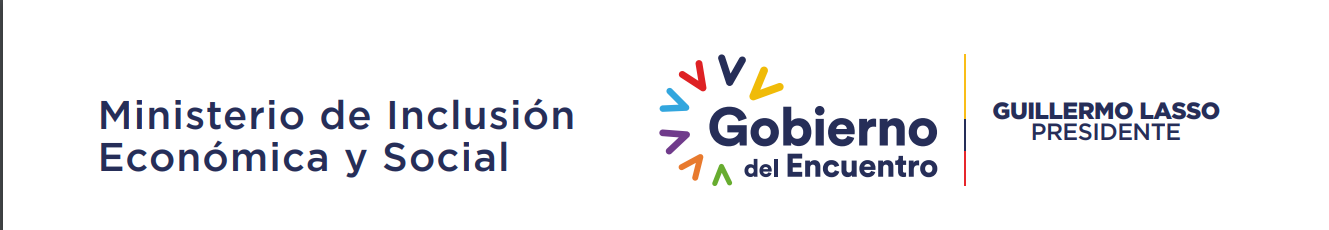
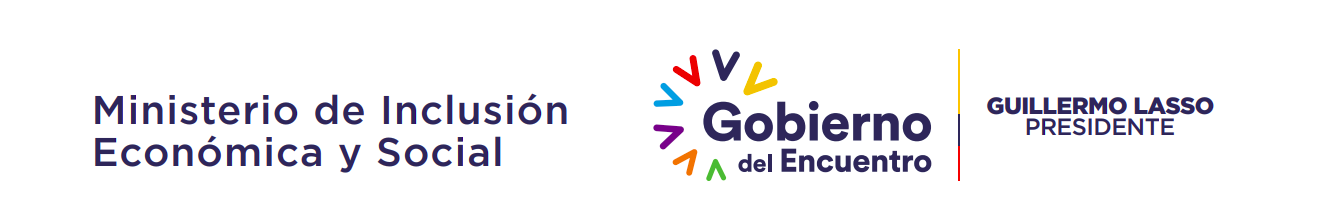
Imagen en login y algo de estilo

diff --git a/miesDinapenWeb/src/app/login/login.component.html b/miesDinapenWeb/src/app/login/login.component.html
@@ -1,34 +1,39 @@
 <!-- <p>login works!</p> -->
 <div class="container">
-<div class="row">
-    <div class="col-12 mt-4">
-        
-                <h2>Acceso de cuenta</h2>
-                <p class="text-muted">Iniciar sesión en su cuenta</p>
-                <div class="form-group row">
-                    <label class="col-form-label col-md-2"><strong>Usuario:</strong></label>
-                    <div class="col-md-5">
-                        <input class="form-control" type="text" id="input_user" name="usuario" [(ngModel)]="objLogin.usuario" placeholder="Usuario" required>
-                        <span class="text-danger" role="alert"><strong id="error_usuario">{{errorUser}}</strong></span>
-                    </div>
-                </div>
+    <div class="m-0 row">
+        <div class="col-12 mt-5">
 
-                <div class="form-group row mt-3">
-                    <label class="col-form-label col-md-2"><strong>Contraseña:</strong></label>
-                    <div class="col-md-5">
-                        <input class="form-control" type="password" id="input_pwd" name="clave" [(ngModel)]="objLogin.clave" placeholder="Contraseña" required>
-                        <span class="text-danger" role="alert"><strong id="error_password">{{errorPwd}}</strong></span>
-                    </div>
+            <h2>Acceso de cuenta</h2>
+            <p class="text-muted">Iniciar sesión en su cuenta</p>
+            <div class="form-group row mt-4">
+                <label class="col-form-label col-md-2"><strong>Identificación:</strong></label>
+                <div class="col-md-5">
+                    <input class="form-control" type="text" id="input_user" name="usuario"
+                        [(ngModel)]="objLogin.usuario" placeholder="Identificación" required>
+                    <span class="text-danger" role="alert"><strong id="error_usuario">{{errorUser}}</strong></span>
                 </div>
+            </div>
 
-                <div class="form-actions my-4 ">
-                    <button class="btn btn-primary px-5" type="button" id="btn-login" (click)="login()" >Acceder</button>
+            <div class="form-group row mt-3">
+                <label class="col-form-label col-md-2"><strong>Contraseña:</strong></label>
+                <div class="col-md-5">
+                    <input class="form-control" type="password" id="input_pwd" name="clave" [(ngModel)]="objLogin.clave"
+                        placeholder="Contraseña" required>
+                    <span class="text-danger" role="alert"><strong id="error_password">{{errorPwd}}</strong></span>
                 </div>
+            </div>
+
+            <div class="form-actions my-4 ">
+                <button class="btn btn-primary px-5" type="button" id="btn-login" (click)="login()">Acceder</button>
+            </div>
+
+            <img src="../../assets/img/mies_footer.png" id="logo_mies_foot" class="rounded float-left"
+                alt="mies">
+        </div>
     </div>
-</div>
 
 
-<!-- <form action="">
+    <!-- <form action="">
     <h2>Acceso de cuenta</h2>
     <p class="text-muted">Iniciar sesión en su cuenta</p>
     <div class="input-group mb-0">
@@ -49,7 +54,7 @@
     
 </form> -->
 
-<!-- <div class="wrapper">
+    <!-- <div class="wrapper">
     <form class="form">
         <div class="w-100 pb-2">
             <h2>Iniciar sesión</h2>
@@ -66,4 +71,5 @@
            
         </div>
     </form>
-</div> --></div>
+</div> -->
+</div>

diff --git a/miesDinapenWeb/src/app/home/home.component.html b/miesDinapenWeb/src/app/home/home.component.html
@@ -1,4 +1,4 @@
 <div class="container">
-        <img src="../../assets/img/MIES.png" id="s" class="rounded float-left" alt="mies">
+        <img src="../../assets/img/MIES.png" id="logo_mies" class="rounded float-left" alt="mies">
 </div>
 <app-footer></app-footer>

diff --git a/miesDinapenWeb/src/app/cantones/cantones.component.html b/miesDinapenWeb/src/app/cantones/cantones.component.html
@@ -1,3 +1,4 @@
+<div class="container">
 <div class="mt-4"></div>
 
 <div class="cantones-body">
@@ -54,4 +55,5 @@
         </div>
    
     </div>
+</div>
 </div>

diff --git a/miesDinapenWeb/src/app/parroquias/parroquias.component.html b/miesDinapenWeb/src/app/parroquias/parroquias.component.html
@@ -1,3 +1,4 @@
+<div class="container">
 <div class="mt-4"></div>
 
 <div class="parroquias-body">
@@ -54,4 +55,5 @@
 
         </div>
     </div>
+</div>
 </div>

diff --git a/miesDinapenWeb/src/app/provincia/provincia.component.html b/miesDinapenWeb/src/app/provincia/provincia.component.html
@@ -1,3 +1,4 @@
+<div class="container">
 <div class="mt-4"></div>
 
 <div class="provincia-body">
@@ -38,4 +39,5 @@
 
         </div>
     </div>
+</div>
 </div>

diff --git a/miesDinapenWeb/src/app/organizaciones/organizaciones.component.html b/miesDinapenWeb/src/app/organizaciones/organizaciones.component.html
@@ -1,3 +1,4 @@
+<div class="container">
 <div class="mt-4"></div>
 
 <div class="organizaciones-body">
@@ -86,4 +87,5 @@
   </div>
 
     </div>
+</div>
 </div>

diff --git a/miesDinapenWeb/src/app/login/login.component.css b/miesDinapenWeb/src/app/login/login.component.css
@@ -1,0 +1,9 @@
+#logo_mies_foot{
+    width: 700px;
+}
+
+@media (max-width: 600px) {
+    #logo_mies_foot{
+        width: 350px;
+    }
+}

diff --git a/miesDinapenWeb/src/app/home/home.component.css b/miesDinapenWeb/src/app/home/home.component.css
@@ -1,0 +1,9 @@
+#logo_mies{
+    width: 750px;
+}
+
+@media (max-width: 600px) {
+    #logo_mies{
+        width: 350px;
+    }
+}
